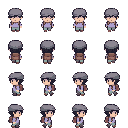
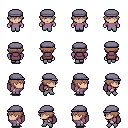
feat(vila): 4 casas novas (floricultura, chá, biblioteca, moinho) sem repetir as da rua, porta no grid automática e Dudu novo

diff --git a/src/game/VillageScene.ts b/src/game/VillageScene.ts
@@ -13,15 +13,25 @@ type Dir = "down" | "up" | "left" | "right";
 const DIR_ROW: Record<Dir, number> = { down: 0, up: 1, left: 2, right: 3 }; // linha na folha 4x4 de caminhada
 const STEP_MS = 180;
 const PROF = { x: 19, y: 14 }; // tile da Professora Commit
-const SPRITE: Record<string, string> = { pedra: "casa-pedra-rosa", madeira: "casa-madeira", padaria: "casa-padaria" };
-// deslocamento (px) pra porta cair no centro de um tile do caminho (medido nos sprites: centro da porta em 40, 48 e 47,5)
-const DOOR_SHIFT: Record<string, number> = { pedra: 0, madeira: -8, padaria: -8 };
+const SPRITE: Record<string, string> = {
+  pedra: "casa-pedra-rosa", madeira: "casa-madeira", padaria: "casa-padaria",
+  floricultura: "casa-floricultura", cha: "casa-cha", biblioteca: "casa-biblioteca", moinho: "casa-moinho",
+};
+// centro da porta (px a partir da esquerda do sprite), medido em cada desenho
+const DOOR_X: Record<string, number> = { pedra: 40.5, madeira: 48.5, padaria: 47.5, floricultura: 64.5, cha: 54.3, biblioteca: 53.3, moinho: 49.5 };
+// Casa centralizada no lote e empurrada até a porta cair no centro de um tile do caminho.
+function doorShift(kind: string, lotX: number, width: number) {
+  const left = lotX * T, door = left + Math.round((6 * T - width) / 2) + (DOOR_X[kind] ?? width / 2);
+  const center = Math.round((door - 8) / T) * T + 8;
+  return Math.round(center - (left + (DOOR_X[kind] ?? width / 2)));
+}
 const SPRITES = "assets/sprites"; // arte própria
 // ?v= muda a cada build: o navegador baixa a arte nova em vez de mostrar a do cache
 const png = (name: string) => `${SPRITES}/${name}.png?v=${import.meta.env.VITE_BUILD ?? "dev"}`;
 
 const IMAGES = [
   "arvore-grande", "arvore-florida", "casa-pedra-rosa", "casa-madeira", "casa-padaria", "torre-relogio",
+  "casa-floricultura", "casa-cha", "casa-biblioteca", "casa-moinho",
   "pedra-do-tempo", "poste-lanterna", "cerca", "arbusto", "capim-alto", "caixa-correio",
   "arvore-pinheiro", "arvore-lavanda", "arbusto-hortensia", "arbusto-frutinhas", "toco-cogumelos", "pedrinhas",
   "canteiro-flores", "placa-madeira", "lote-vazio", "ponte-madeira",
@@ -305,7 +315,7 @@ export class VillageScene extends Phaser.Scene {
       l.img = kind ? this.place(SPRITE[kind] ?? "casa-madeira", lot.x, bottom, l.status === "ghost" ? 0 : 2, 0.95)
         : this.place("lote-vazio", lot.x, bottom, 0, 0);
       l.objs = this.children.list.slice(before);
-      if (kind) l.objs.forEach(o => { (o as Phaser.GameObjects.Image).x += DOOR_SHIFT[kind] ?? 0; });
+      if (kind) { const dx = doorShift(kind, lot.x, l.img.width); l.objs.forEach(o => { (o as Phaser.GameObjects.Image).x += dx; }); }
       if (l.status === "stg") l.img.setTint(0xb8f0c8);
       if (l.status === "ghost") l.objs.forEach(o => { const im = o as Phaser.GameObjects.Image; im.setAlpha(im.alpha * 0.4); }); // sombras incluídas, na proporção
     });
@@ -322,7 +332,8 @@ export class VillageScene extends Phaser.Scene {
     // de frente pra um lote: troca o que tem nele (edita a linha do casas.txt)
     const lot = LOTS.findIndex(l => fx >= l.x && fx < l.x + l.w && fy >= l.y && fy < l.y + l.h);
     if (lot >= 0) {
-      const kind = nextKind(houses(store.ws.work).get(lot));
+      const street = houses(store.ws.work);
+      const kind = nextKind(street.get(lot), [...street].filter(([n]) => n !== lot).map(([, k]) => k));
       store.setWork(kind ? build(store.ws.work, lot, kind) : demolish(store.ws.work, lot));
       return ui.toast(`${FILES.casas} · lote ${lot}: ${kind ?? (loadSettings().lang === "pt" ? "vazio" : "empty")}`);
     }

diff --git a/src/game/world.ts b/src/game/world.ts
@@ -4,8 +4,8 @@
 
 import type { Files } from "../git/repo.ts";
 
-// um tipo de casa por sprite desenhado; Espaço num lote percorre: vazio -> pedra -> madeira -> padaria -> vazio
-export const HOUSE_KINDS = ["pedra", "madeira", "padaria"] as const;
+// um tipo de casa por sprite desenhado; Espaço num lote percorre os tipos em ordem e volta ao vazio
+export const HOUSE_KINDS = ["pedra", "madeira", "padaria", "floricultura", "cha", "biblioteca", "moinho"] as const;
 export const FLOWER_KINDS = ["girassol", "rosa", "trevo"] as const;
 export type HouseKind = (typeof HOUSE_KINDS)[number];
 export type FlowerKind = (typeof FLOWER_KINDS)[number];
@@ -41,10 +41,13 @@ function edit(files: Files, path: string, label: string, n: number, kind: string
 }
 
 export const build = (f: Files, lot: number, kind: HouseKind) => edit(f, FILES.casas, "lote", lot, kind);
-// próximo tipo no ciclo do lote (null = vazio)
-export function nextKind(kind: string | undefined): HouseKind | null {
-  const i = HOUSE_KINDS.indexOf(kind as HouseKind);
-  return i === HOUSE_KINDS.length - 1 ? null : HOUSE_KINDS[i + 1];
+// próximo tipo no ciclo do lote (null = vazio), pulando os que já estão em outros lotes da rua:
+// nunca aparecem duas casas iguais, e a que sai de um lote volta a ficar disponível
+export function nextKind(kind: string | undefined, taken: Iterable<string> = []): HouseKind | null {
+  const used = new Set(taken);
+  for (let i = HOUSE_KINDS.indexOf(kind as HouseKind) + 1; i < HOUSE_KINDS.length; i++)
+    if (!used.has(HOUSE_KINDS[i])) return HOUSE_KINDS[i];
+  return null;
 }
 
 export const demolish = (f: Files, lot: number) => edit(f, FILES.casas, "lote", lot, null);

diff --git a/src/game/UIScene.ts b/src/game/UIScene.ts
@@ -26,6 +26,7 @@ const PAUSE = {
 
 export class UIScene extends Phaser.Scene {
   private paused = false;
+  private lastToast: Phaser.GameObjects.GameObject[] = [];
   private pauseSel = 0;
   private pauseBox!: Phaser.GameObjects.Container;
   private box!: Phaser.GameObjects.Container;
@@ -124,10 +125,12 @@ export class UIScene extends Phaser.Scene {
   // aviso curto no alto da tela (ex.: a linha do casas.txt que mudou)
   toast(msg: string) {
     const W = Math.floor(this.scale.width / this.cameras.main.zoom);
+    this.lastToast.forEach(o => o.destroy()); // apertou de novo: o aviso novo substitui o anterior
     const bg = this.add.graphics(); // fundo antes do texto, senão cobre as letras
     const t = this.add.text(0, 0, msg, { ...FONT, color: "#fcf4ee" });
     t.setPosition(Math.round(W / 2 - t.width / 2), 28);
     bg.fillStyle(C.woodDark).fillRect(t.x - 5, t.y - 4, t.width + 10, 16);
+    this.lastToast = [bg, t];
     this.tweens.add({ targets: [t, bg], alpha: 0, delay: 1400, duration: 400, onComplete: () => { t.destroy(); bg.destroy(); } });
   }
 

diff --git a/src/game/world.test.ts b/src/game/world.test.ts
@@ -26,6 +26,10 @@ test("status por objeto: mod, stg, ok e fantasma", () => {
   assert.equal(itemStatus(m(), m([1, "a"]), m([1, "a"]), 1), "ghost");
 });
 
-test("Espaço num lote percorre vazio, pedra, madeira, padaria e volta ao vazio", () => {
-  assert.deepEqual([undefined, "pedra", "madeira", "padaria"].map(nextKind), ["pedra", "madeira", "padaria", null]);
+test("Espaço num lote percorre os tipos, pulando os que já estão na rua, e volta ao vazio", () => {
+  const rua = ["pedra", "madeira", "padaria"];
+  assert.equal(nextKind(undefined, rua), "floricultura");
+  assert.equal(nextKind("floricultura", rua), "cha");
+  assert.equal(nextKind("moinho", rua), null);
+  assert.equal(nextKind("cha", [...rua, "biblioteca"]), "moinho");
 });
